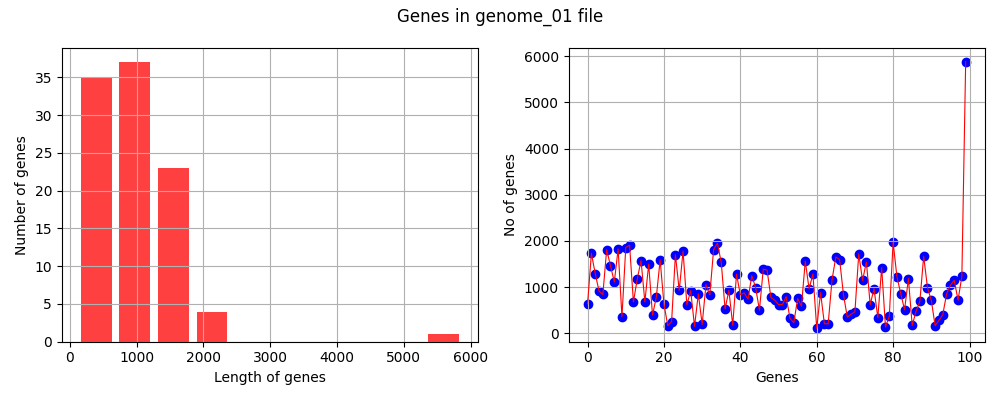
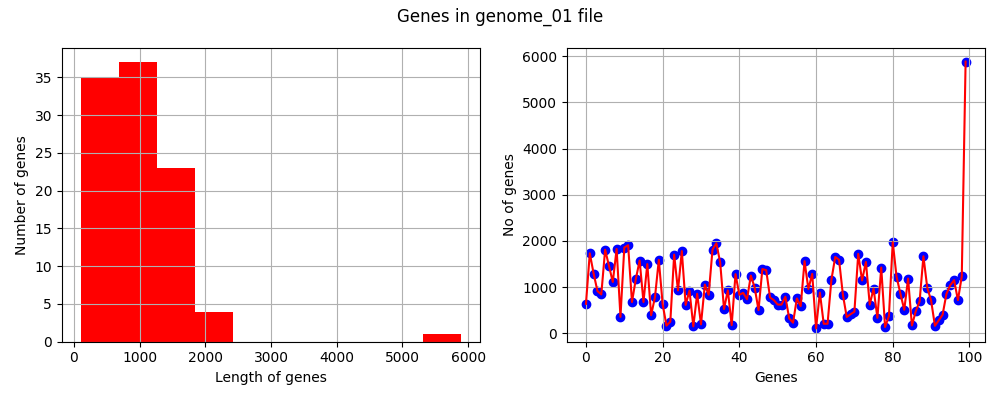
final version uploaded in portal

diff --git a/MainProject/project.py b/MainProject/project.py
@@ -7,29 +7,32 @@ from sklearn import metrics
 
 # Create an instance of the Sequence class.
 example_sequence1 = sequence.Sequence('AGCTAATA')
+example_sequence2 = sequence.Sequence('AAGTAATA')
+
+# sequences for spliting
+Splitter_sequence_01='ATTTGAAGGTGGG'
+    #This splitter sequence is most common found in shell task 4
+Splitter_sequence='AAAAAAAAAATTTTTTTTTT'
 
 # Call the first_base method on our instance. Notice that we don't specify the 'self' parameter when we call the method.
 example_first_base = example_sequence1.first_base()
-print(f'The first base is: {example_first_base}')
-
 
 ###### Task 1
-example_sequence2 = sequence.Sequence('AAGTAATA')
 example1_first_base = example_sequence2.first_base()
-print(f'Task 1: The first base by : {example1_first_base}')
+task_1=example1_first_base
 
 ###### Task 2
 example_sequence2_base_count = example_sequence2.bases_in_DNA()
-print(f'Task 2: Number of basses of sequence in Task1: {example_sequence2_base_count}')
+task_2=example_sequence2_base_count
 
 ###### Task3
-print(f'Task 3: DNA sequence of Task1: {example_sequence2.bool_dna()}')
+task_3=example_sequence2.bool_dna()
 
 ###### Task4
-print(f'Task 4: Compliment of Task1 sequence {example_sequence2.bases} is: {example_sequence2.compliment_of_sequence()}')
+task_4=example_sequence2.compliment_of_sequence()
 
 ##### Task5
-print(f'Task 5: Pair of non-matching bases: {example_sequence1.matching_sequence(example_sequence2.bases)}')
+task_5= example_sequence1.matching_sequence(example_sequence2.bases)
 
 ##### Task6
 def read_genome_file(file):
@@ -38,16 +41,13 @@ def read_genome_file(file):
     return sequence.Sequence(genome_read_lines[1])
 
 file_genome_01 = read_genome_file('genome_01.dat')
-print(f'Task 6: Total number of characters in "genome_01" is: {file_genome_01.bases_in_DNA()}')
-
-
-#Splitter_sequence='ATTTGAAGGTGGG'
-Splitter_sequence='AAAAAAAAAATTTTTTTTTT' ##this splitter sequence is most common found in shell task 4
+task_6=file_genome_01.bases_in_DNA()
 
 ##### Task7
-splitted_genome_01 = file_genome_01.split_sequence(Splitter_sequence) 
-print(f'Task 7: Length of first genes is: {len(splitted_genome_01[0].bases)}')
-print(f'Task 7: Numer of DNA sequence "genome_01.dat" file: {len(splitted_genome_01)}')
+splitted_genome_01 = file_genome_01.split_sequence(Splitter_sequence)
+task_7=len(splitted_genome_01[0].bases)
+task_7_1=len(splitted_genome_01)
+
 
 ##### Task8 
 def genome_lengths(splitted_genome):
@@ -58,22 +58,78 @@ def genome_lengths(splitted_genome):
 
 file_genome01_length = genome_lengths(splitted_genome_01)
 
-#print(file_genome01_length) 
-
 ##### Task 9
 file_genome_02= read_genome_file('genome_02.dat')
 compare_results = file_genome_02.compare_sequence(file_genome_01,Splitter_sequence)
-print(f'Task 9: Total Numer of DNA sequence "genome_02.dat" file: {compare_results[3]}')
+task_9=compare_results[3]
+
+################################################Extended tasks##################################################
+
+##### Task 10
+ 
+x = np.asarray(compare_results[1]).reshape(-1,1)  #### attribute gene length  
+y = np.asarray(compare_results[2]).reshape(-1,1)  #### label numer of mutations
+
+test_size=0.5
+test_size_01 = 0.7
+
+# Split raandomly into train and test subsets for both test size
+
+x_train, x_test, y_train, y_test = train_test_split(
+    x, y, test_size=test_size, random_state=0) 
+
+x_train_01, x_test_01, y_train_01, y_test_01 = train_test_split(
+    x, y, test_size=test_size_01, random_state=0) 
+
+# regression model to find best fit for both test size
+
+regression_model = LinearRegression()
+regression_model.fit(x_train, y_train)
+y_predicted = regression_model.predict(x_test)
+
+regression_model_01 = LinearRegression()
+regression_model_01.fit(x_train, y_train)
+y_predicted_01 = regression_model_01.predict(x_test_01)
+
+#Taking the root mean squared error to show difference
+mean=round(np.sqrt(metrics.mean_squared_error(y_test, y_predicted)))
+mean_01=round(np.sqrt(metrics.mean_squared_error(y_test_01, y_predicted_01)))
+
+#stroing results for both test_size
+task_10_test_size=regression_model.intercept_
+task_10_1_test_size=regression_model.coef_
+task_10_test_size_01=regression_model_01.intercept_
+task_10_1_test_size_01=regression_model_01.coef_
 
 
-################################Plots#########################################################
-#####plots for Task 8
-#plotting the 2 subplots one showing number of genes and other showing length of genes
+
+#######################################Prints########################################################
+print(f'The first base is: {example_first_base}')
+print(f'Task 1: The first base by : {task_1}')
+print(f'Task 2: Number of basses of sequence in Task1: {task_2}')
+print(f'Task 3: DNA sequence of Task1: {task_3}')
+print(f'Task 4: Compliment of Task1 sequence {example_sequence2.bases} is: {task_4}')
+print(f'Task 5: Pair of non-matching bases: {task_5}')
+print(f'Task 6: Total number of characters in "genome_01" is: {task_6}')
+print(f'Task 7: Length of first genes is: {task_7}')
+print(f'Task 7: Numer of DNA sequence "genome_01.dat" file: {task_7_1}')
+print(f'Task 9: Total Number of DNA sequence "genome_02.dat" file: {task_9}')
+print(f'Task 10: test_size={test_size} Intercept of predicted line : {task_10_test_size}')
+print(f'Task 10: test_size={test_size} The slope of line is : {task_10_1_test_size}')
+print(f'Task 10: test_size={test_size_01} Intercept of predicted line : {task_10_1_test_size_01}')
+print(f'Task 10: test_size={test_size_01} The slope of line is : {task_10_1_test_size_01}')
+
+
+#######################################Plots#########################################################
+
+##### Task 8
+
+#plotting the 2 subplots to represent genes length &number of genes with histogram and and scatter plot.
 plt.subplots(1,figsize=(10,4), sharey=True, tight_layout=True)
 #Subplot 1 for length of genes and number o genes
 plt.suptitle("Genes in genome_01 file")
 plt.subplot(1,2,1)
-n, bins, patches = plt.hist(file_genome01_length,color='r', rwidth=0.8, alpha=0.75)
+n, bins, patches = plt.hist(file_genome01_length,color='r')
 #plt.title("Genes status in genome_01 file")
 plt.xlabel("Length of genes")
 plt.ylabel("Number of genes")
@@ -81,7 +137,7 @@ plt.grid(True)
 
 #Subplot 2  for genes and number of genes
 plt.subplot(1,2,2)
-plt.plot(file_genome01_length, color='r', linewidth=0.8)
+plt.plot(file_genome01_length, color='r')
 plt.scatter(range(len(file_genome01_length)),file_genome01_length, color='b')
 
 plt.xlabel("Genes")
@@ -93,11 +149,12 @@ plt.savefig("Task8.png")
 plt.show()
 plt.close()
 
-####plots for Task 9
+##### Task 9
+
 plt.scatter(compare_results[1], compare_results[2], color='b')
 plt.rc('font', size=8)
 plt.title(
-    f" Task 9:'genome_02' vs 'genome_01'\nNumber of bases (dots) with mismatch is: {compare_results[0]}")
+    f" Task 9:'genome_02' vs 'genome_01'\n Mismatch count= {compare_results[0]}")
 plt.xlabel("Length of genes")
 plt.ylabel("Swap mutations")
 plt.grid(True)
@@ -105,11 +162,31 @@ plt.savefig("Task9.png")
 plt.show()
 plt.close()
 
-################################################Extended tasks##################################################
+#### Task 10
 
-######Task 10
+#plotting the 2 subplots for both test size
+plt.subplots(1,figsize=(10,4), sharey=True, tight_layout=True)
 
+#Subplot 1 for  test_size
+plt.suptitle(f"Task 10: Predicated Mutattion on genes length")
+plt.subplot(1,2,1)
+plt.plot(x_test, y_predicted, color='red')
+plt.scatter(x_test, y_test, color='gray')
+plt.title(f" Test size={test_size} and RMSD = {(mean,2)}")
+plt.xlabel("Length of genes")
+plt.ylabel("Swap mutations")
+plt.legend(['Li Tations'])
 
+#Subplot 2  for test_szie_01
+plt.subplot(1,2,2)
+plt.plot(x_test_01, y_predicted_01, color='red')
+plt.scatter(x_test_01, y_test_01, color='gray')
+plt.title(f" Test size={test_size_01} and RMSD = {(mean_01,2)}")
+plt.xlabel("Length of genes")
+plt.ylabel("Swap mutations")
+plt.legend(['Linear regression','Mutations'])
 
-
-
+#saving data in files
+plt.savefig("Task10.png")
+plt.show()
+plt.close()
